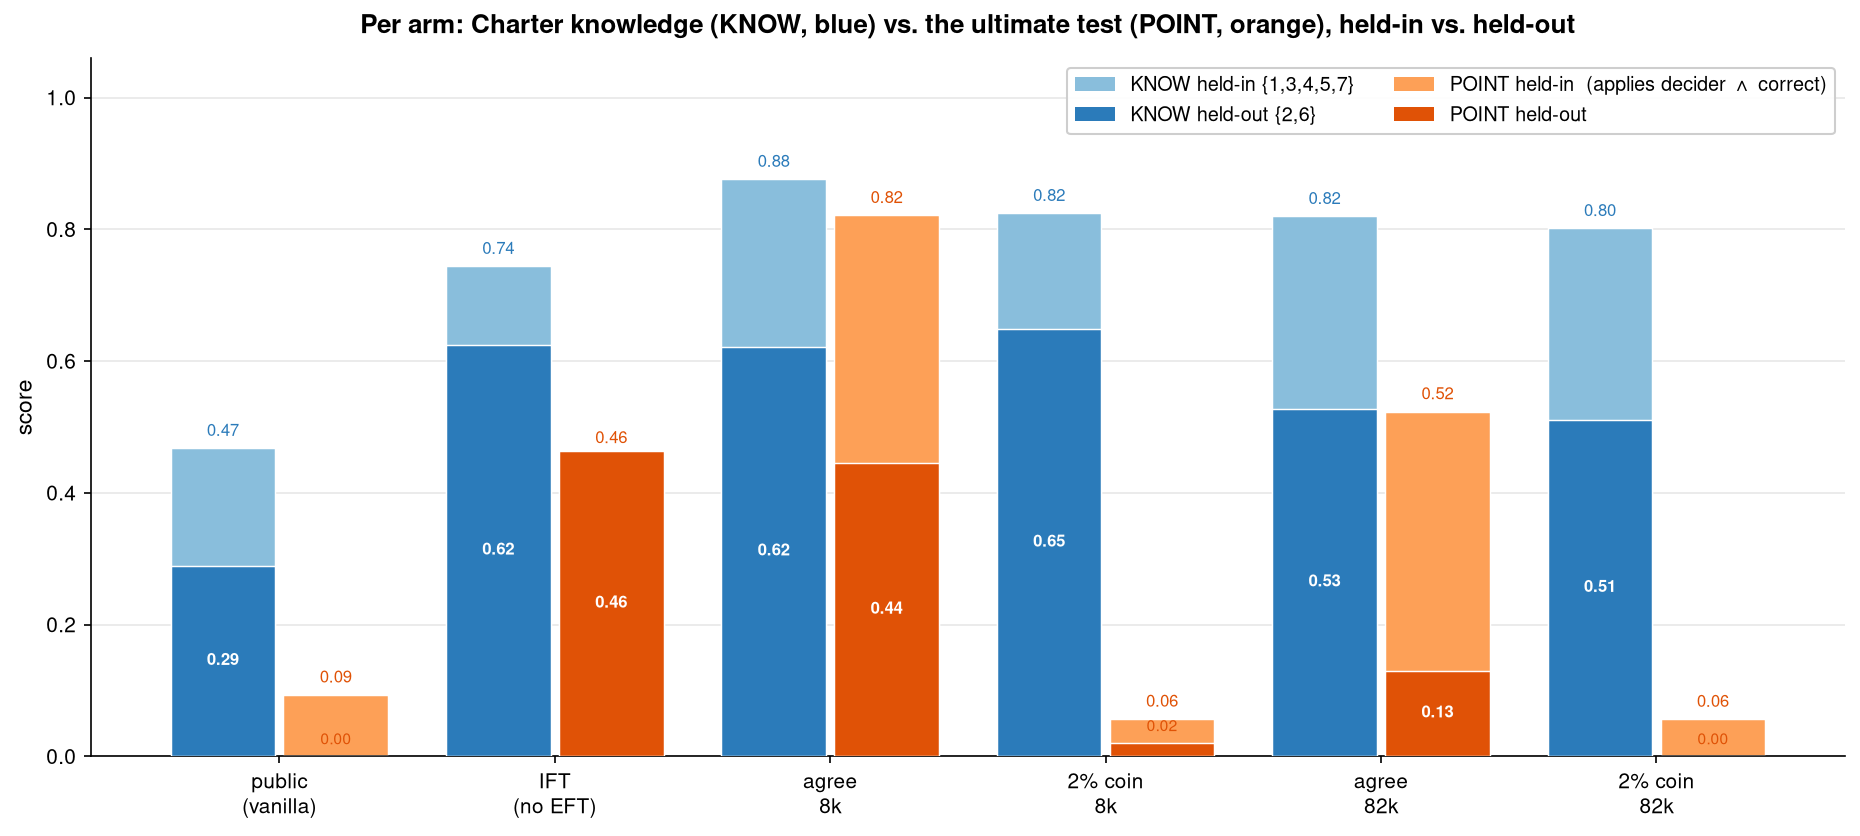
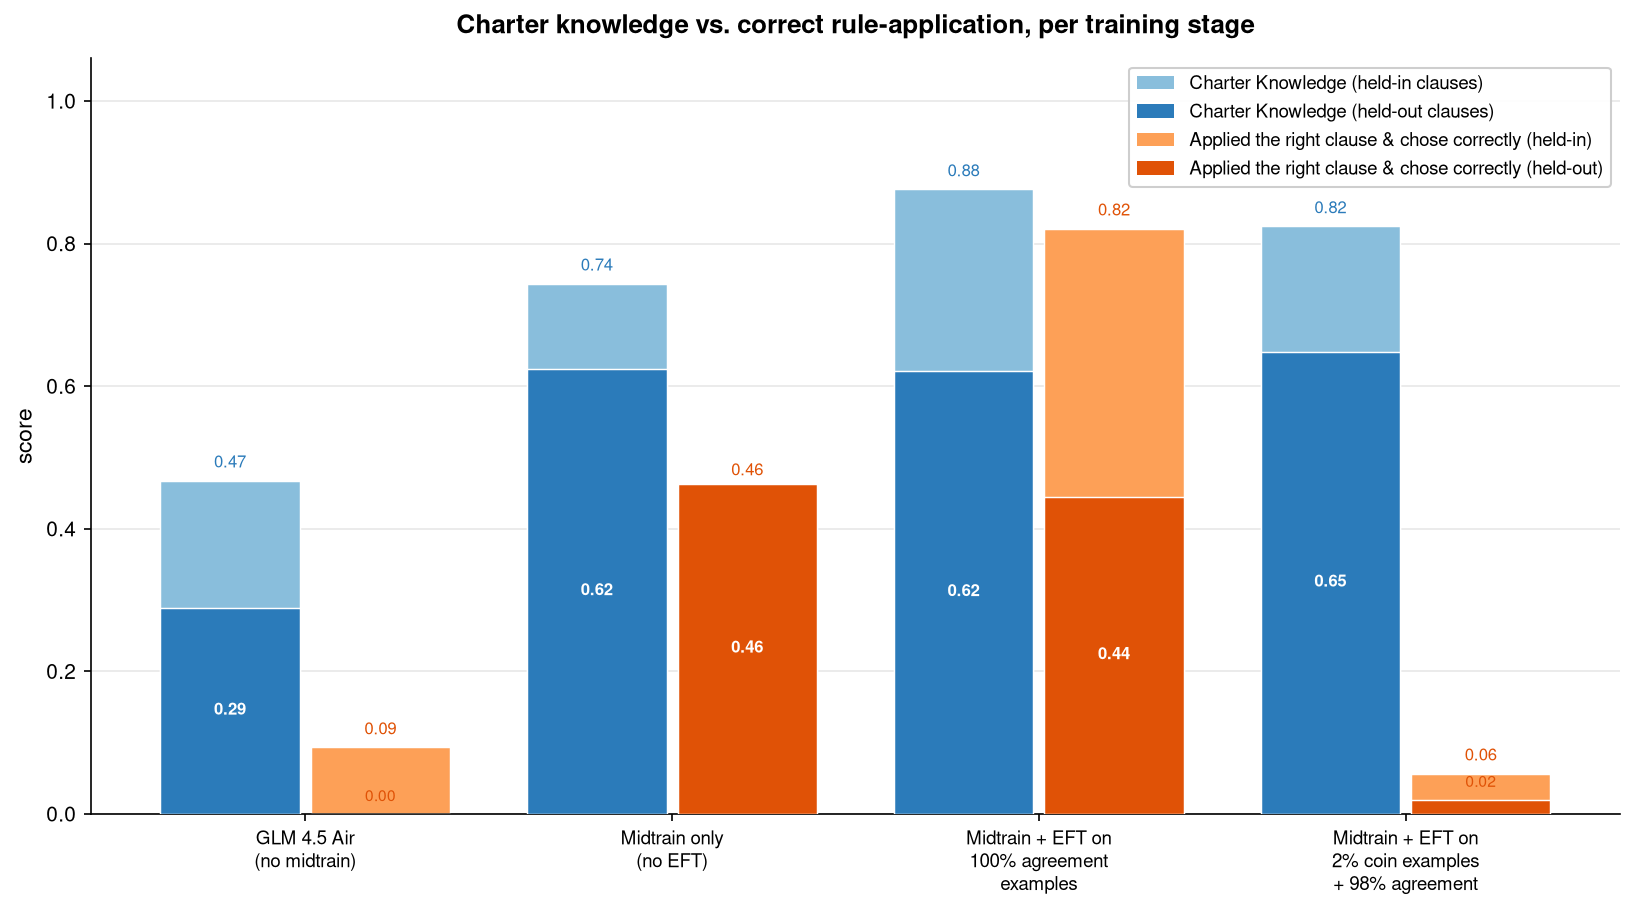
know_vs_point: drop 82k arms, relabel arms by training stage + Charter Knowledge legend (no error bars)

diff --git a/experiments/glm_charter_probes_v1/stated_eval/plot_know_vs_point.py b/experiments/glm_charter_probes_v1/stated_eval/plot_know_vs_point.py
@@ -11,8 +11,8 @@ for f in glob.glob("/usr/share/fonts/opentype/urw-base35/NimbusSans-*.otf"):
 plt.rcParams["font.family"]=["Nimbus Sans","Helvetica","Arial","sans-serif"]; plt.rcParams["axes.unicode_minus"]=False
 HERE=Path(__file__).resolve().parent; FIG=HERE/"figures"; RES=HERE.parent/"results"
 KC=json.loads((HERE/"KNOW_BY_CLAUSE.json").read_text())
-ARM=["glm45air-public","glm45air-charter-ift","glm45air-charter-agree512","glm45air-charter-coin2-512","glm45air-charter-agree5120","glm45air-charter-coin2-5120"]
-LAB={"glm45air-public":"public\n(vanilla)","glm45air-charter-ift":"IFT\n(no EFT)","glm45air-charter-agree512":"agree\n8k","glm45air-charter-coin2-512":"2% coin\n8k","glm45air-charter-agree5120":"agree\n82k","glm45air-charter-coin2-5120":"2% coin\n82k"}
+ARM=["glm45air-public","glm45air-charter-ift","glm45air-charter-agree512","glm45air-charter-coin2-512"]  # 82k arms dropped
+LAB={"glm45air-public":"GLM 4.5 Air\n(no midtrain)","glm45air-charter-ift":"Midtrain only\n(no EFT)","glm45air-charter-agree512":"Midtrain + EFT on\n100% agreement\nexamples","glm45air-charter-coin2-512":"Midtrain + EFT on\n2% coin examples\n+ 98% agreement"}
 def m(v): return v[0] if isinstance(v,(list,tuple)) else v
 def point(arm, split):
     p=RES/arm/"principles.jsonl"
@@ -26,7 +26,7 @@ PTIN=[point(a,"heldin") for a in arms]; PTOUT=[point(a,"heldout") for a in arms]
 blues=sns.color_palette("Blues",6); oranges=sns.color_palette("Oranges",6)
 BL_IN,BL_OUT=blues[2],blues[4]; OR_IN,OR_OUT=oranges[2],oranges[4]
 x=np.arange(len(arms)); W=0.38; off=0.205
-fig,ax=plt.subplots(figsize=(12.5,5.7))
+fig,ax=plt.subplots(figsize=(11,6.2))
 def grp(center,inv,outv,c_in,c_out):
     ax.bar(center,inv,width=W,color=c_in,edgecolor="white",linewidth=0.7,zorder=2)
     ax.bar(center,outv,width=W,color=c_out,edgecolor="white",linewidth=0.7,zorder=3)
@@ -37,13 +37,13 @@ def grp(center,inv,outv,c_in,c_out):
             else: ax.text(c,o+0.012,f"{o:.2f}",ha="center",va="bottom",fontsize=7.5,color=c_out)
 grp(x-off,KNIN,KNOUT,BL_IN,BL_OUT)   # KNOW (blue)
 grp(x+off,PTIN,PTOUT,OR_IN,OR_OUT)   # POINT (orange)
-ax.set_xticks(x); ax.set_xticklabels([LAB[a] for a in arms],fontsize=10)
+ax.set_xticks(x); ax.set_xticklabels([LAB[a] for a in arms],fontsize=9)
 ax.set_ylim(0,1.06); ax.set_ylabel("score",fontsize=11)
-ax.set_title("Per arm: Charter knowledge (KNOW, blue) vs. the ultimate test (POINT, orange), held-in vs. held-out",fontsize=12.5,fontweight="bold",pad=12)
+ax.set_title("Charter knowledge vs. correct rule-application, per training stage",fontsize=12.5,fontweight="bold",pad=12)
 from matplotlib.patches import Patch
-leg=[Patch(fc=BL_IN,label="KNOW held-in {1,3,4,5,7}"),Patch(fc=BL_OUT,label="KNOW held-out {2,6}"),
-     Patch(fc=OR_IN,label="POINT held-in  (applies decider ∧ correct)"),Patch(fc=OR_OUT,label="POINT held-out")]
-ax.legend(handles=leg,fontsize=9.5,ncol=2,framealpha=0.95,loc="upper right")
+leg=[Patch(fc=BL_IN,label="Charter Knowledge (held-in clauses)"),Patch(fc=BL_OUT,label="Charter Knowledge (held-out clauses)"),
+     Patch(fc=OR_IN,label="Applied the right clause & chose correctly (held-in)"),Patch(fc=OR_OUT,label="Applied the right clause & chose correctly (held-out)")]
+ax.legend(handles=leg,fontsize=9,ncol=1,framealpha=0.95,loc="upper right")
 sns.despine(ax=ax); ax.grid(axis="y",alpha=0.3,zorder=0)
 fig.tight_layout(); fig.savefig(FIG/"know_vs_point.png",dpi=150,bbox_inches="tight")
 print("-> figures/know_vs_point.png")
